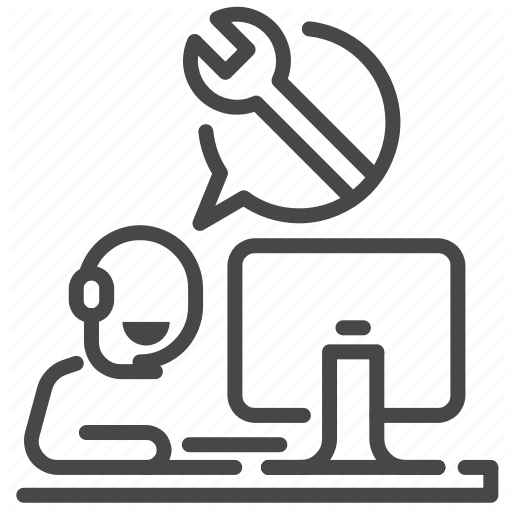
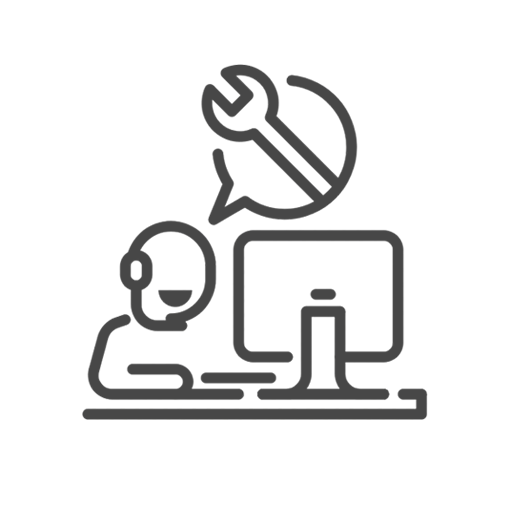
Some Small Changes in home images
-chnage their size
-change the domain
-correct some spelling

Changed region(s): [[0.0312, 0.0, 1.0, 1.0]]

diff --git a/src/app/home/offers/offers.component.ts b/src/app/home/offers/offers.component.ts
@@ -7,12 +7,13 @@ import { Offer } from 'src/app/models/offer.model';
   styleUrls: ['./offers.component.css']
 })
 export class OffersComponent implements OnInit {
-offers:Offer[] = 
-[{'id': 1 , 'image':'../../../assets/img/fastIcon.png' , 'name':'fast Work'} ,
-{'id': 2 , 'image':"../../../assets/img/Technical support.png" , 'name':'Technical support'},
-{'id': 3 , 'image':"../../../assets/img/Responsive.png" , 'name':'Responsive'}
-]
-;
+  offers: Offer[] =
+    [
+      { 'id': 1, 'image': '../../../assets/img/fastIcon.png', 'name': 'Fast Work' },
+      { 'id': 2, 'image': "../../../assets/img/Technical support.png", 'name': 'Technical support' },
+      { 'id': 3, 'image': "../../../assets/img/Responsive.png", 'name': 'Responsive' }
+    ]
+    ;
   constructor() { }
 
   ngOnInit(): void {

diff --git a/src/app/home/offers/offers.component.html b/src/app/home/offers/offers.component.html
@@ -12,7 +12,7 @@
     <!--Grid column-->
     <div class="col-md-4" *ngFor="let offer of offers">
 
-        <img class="rounded-circle z-depth-2 img-fluid bg-white" width="257" height="170" alt="100x100" src="{{offer.image}}"
+        <img class="rounded-circle z-depth-2 img-fluid bg-white" width="250" height="250" alt="100x100" src="{{offer.image}}"
         data-holder-rendered="true">
 
         <h2 class="my-5 h2">{{offer.name}}</h2>

diff --git a/src/app/home/header/header.component.html b/src/app/home/header/header.component.html
@@ -17,7 +17,7 @@
             Nam, tempora!Lorem ipsum dolor sit amet consectetur adipisicing elit. Nam, tempora!</p>
           <a routerLink="/contact-us">
             <button class="btn  btn-lg " >
-              <i class="far fa-paper-plane">&nbsp;</i> Contact US
+              <i class="far fa-paper-plane">&nbsp;</i> Contact uS
           </button>
         </a>
         </div>

diff --git a/src/app/services/domain.ts b/src/app/services/domain.ts
@@ -1,2 +1,2 @@
-export const domainName = 'http://localhost:3000/api';
-// export const domainName = 'https://forsito.herokuapp.com/api';
+//export const domainName = 'http://localhost:3000/api';
+export const domainName = 'https://forsito.herokuapp.com/api';
